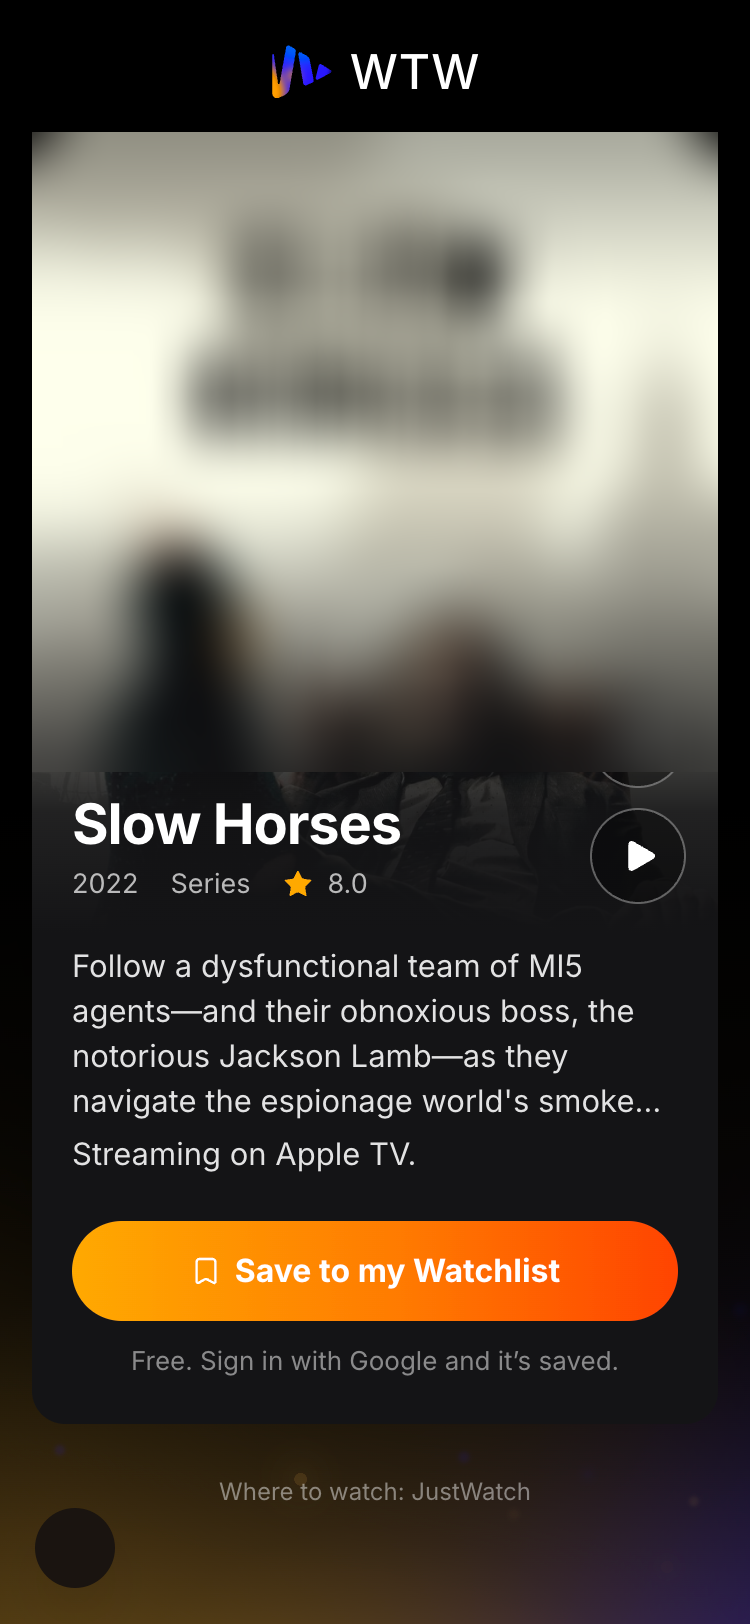
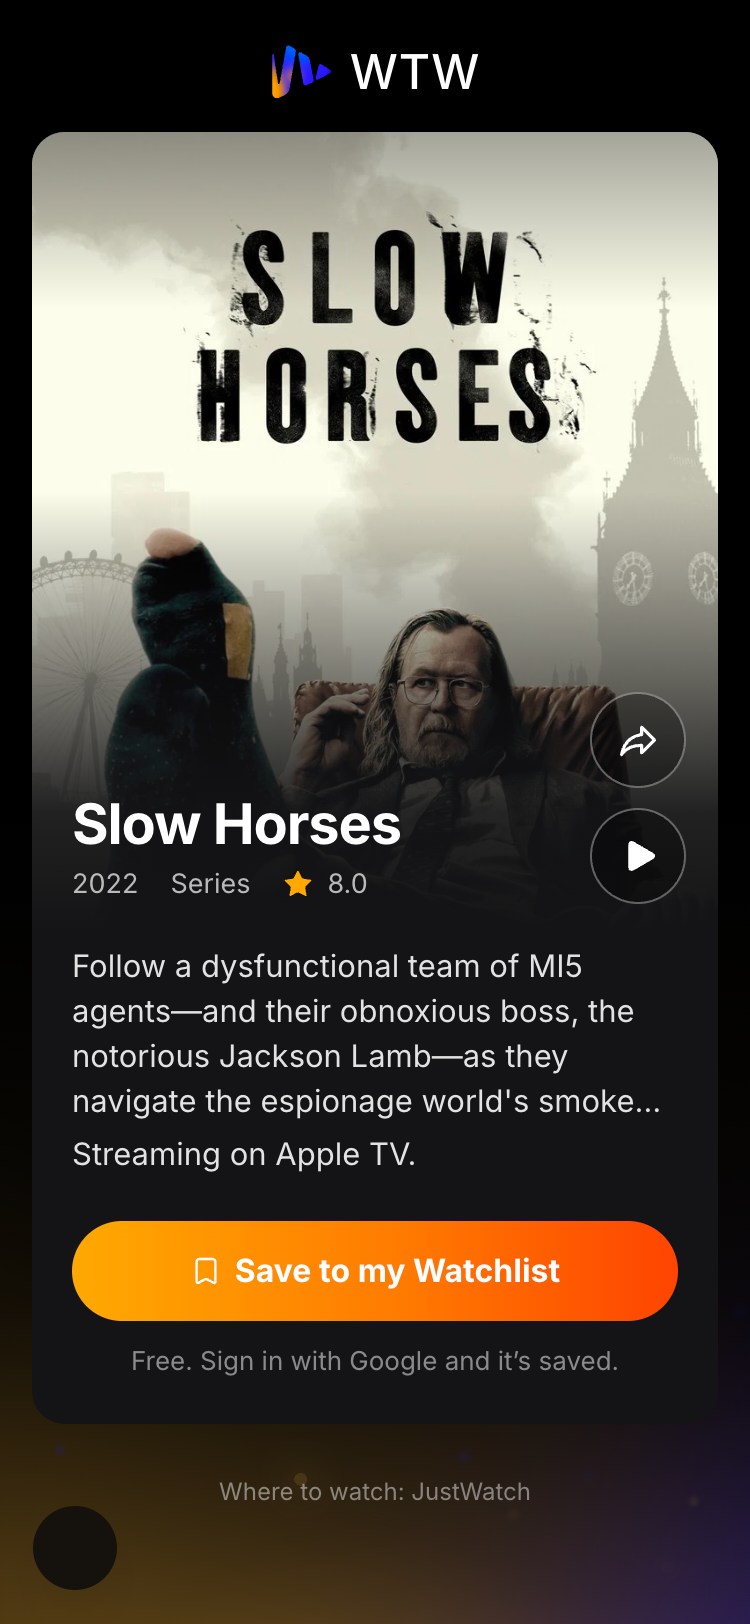
L1 follow-up: the share page credits JustWatch, once, under the card (Eran's OK on #396)
- SharedTitleView: "Where to watch: JustWatch" under the card when the
  card names a service ("Streaming on Apple TV."), none otherwise.
- Test: once with a service, absent without.
- The mock without blur (only the dev badge covered), and its line in
  INTEGRATION.md. The games' Watchlist needs nothing (unreachable; its
  deletion is on the backlog, #408).

diff --git a/tests/component/shared-title-credit.test.tsx b/tests/component/shared-title-credit.test.tsx
@@ -1,0 +1,35 @@
+import { describe, it, expect, vi, afterEach } from 'vitest'
+import { render, screen, cleanup } from '@testing-library/react'
+import type { ReactNode } from 'react'
+import type { Recommendation } from '@/types/recommendation'
+
+// v3 L1 follow-up (Eran on #396): the public share page credits JustWatch once, under the card, only when the card
+// names a service.
+
+vi.mock('next/navigation', () => ({ useRouter: () => ({ push: vi.fn(), replace: vi.fn() }) }))
+vi.mock('@/modules/session/components/AppShell', () => ({ default: ({ children }: { children: ReactNode }) => <div>{children}</div> }))
+vi.mock('@/lib/supabase/client', () => ({ createClient: () => ({ auth: { signInWithOAuth: vi.fn() } }) }))
+vi.mock('@/lib/share', () => ({ shareTitle: vi.fn() }))
+
+import SharedTitleView from '@/app/t/[key]/SharedTitleView'
+
+const rec = (where: string | null): Recommendation => ({
+  id: 'tv:95480', title: 'Slow Horses', type: 'tv', year: 2022, poster_url: null, meta: 'Series', rating: 8,
+  match: 0, reason: '', where, motif: 'dot', palette: ['#16242E', '#F5C9A6'],
+})
+const page = (where: string | null) =>
+  render(<SharedTitleView shareKey="tv-95480" rec={rec(where)} synopsis="Follow a dysfunctional team of MI5 agents." by={null} userId={null} viewerName={null} newUser={false} saveOnLoad={false} />)
+
+afterEach(cleanup)
+
+describe('the share page credits JustWatch', () => {
+  it('once, under the card, when the card names a service', () => {
+    page('Apple TV')
+    expect(screen.getByText('Streaming on Apple TV.')).toBeInTheDocument()
+    expect(screen.getAllByText('Where to watch: JustWatch')).toHaveLength(1)
+  })
+  it('not at all when it names none', () => {
+    page(null)
+    expect(screen.queryByText('Where to watch: JustWatch')).toBeNull()
+  })
+})

diff --git a/src/app/t/[key]/SharedTitleView.tsx b/src/app/t/[key]/SharedTitleView.tsx
@@ -11,7 +11,6 @@
  * Saving goes through the same watchlist as the feed, so it syncs and reaches
  * the fingerprint like any other save.
  */
-import JustWatchCredit from "@/app/components/JustWatchCredit";
 import { useEffect, useState } from "react";
 import { useRouter } from "next/navigation";
 import { Bookmark, Play, Star } from "lucide-react";
@@ -20,6 +19,7 @@ import { createClient } from "@/lib/supabase/client";
 import { addToWatchlist, hydrateWatchlist, isInWatchlist, removeFromWatchlist } from "@/lib/watchlist";
 import { shareTitle } from "@/lib/share";
 import ShareIcon from "@/app/components/ShareIcon";
+import JustWatchCredit from "@/app/components/JustWatchCredit";
 import { RETURN_COOKIE } from "@/lib/safe-redirect";
 import type { Recommendation } from "@/types/recommendation";
 import styles from "./SharedTitle.module.css";

diff --git a/docs/INTEGRATION.md b/docs/INTEGRATION.md
@@ -38,6 +38,7 @@ Spec `docs/plan/v3/PLAN.md`; status in GitHub Issues (label `v3`) and on the [WT
 - **Q2 · Each result shows where it stands with you (#365, Shahar, 2026-11-21), behind `SEARCH_V3`.** Each title row in Search (results, your own groups, a person's titles) carries one mark after the year, in white: your rating (❤ Loved · 👍 Liked · 👎 Disliked) first, else "In your Watchlist", else "Hidden from For you" (`markFor` in `SearchView`). Marks come from Seen's list (`myRatings()` in `SearchCard.tsx`, which now also returns hidden titles) and follow every rating as it lands (`RATED_EVENT`) and every hide or restore (`HIDDEN_EVENT`, fired by For you's Remove and Seen's Restore; a rating outranks hidden). A hidden title lights no chip on the card. Flag off: no marks.
 - **L1 · The JustWatch credit comes back (#372, Alon, 2026-11-19, #396), no flag (a licence requirement).** One quiet line, "Where to watch: JustWatch" (`src/app/components/JustWatchCredit.tsx`), Eran's choice B: at the end of For you and of the Watchlist, and under the card on the card page and Search's card, only where a service is shown. Found and fixed on the way: the end of both lists sat under the tab bar (`.sentinel` shrank as a flex item), and Search showed the US service for your own titles (`withIsraelService`, DEC-11). Open for Eran: the share page `/t/…` and the games' watchlist also show a service without the credit.
 - **F5 · "Sharper picks" gets the orange button (#347, Eran, 2026-11-22), no flag.** `CalibrateNudge`'s "Finish calibration" now uses the app's orange primary (`watchlistBtn` + `watchlistBtnPrimary`, as on W1's end card): 50 px and 16 px like "Add to Watchlist", with its hover. It was already orange through `browseBtn` since #336 (the approved `6-sharper-picks-today.jpg` predates that); `browseBtn` had no other user and is gone. Copy unchanged. Proof in `docs/prototypes/for-you-v3/f5-proof/`.
+- **L1 follow-up · The share page credits JustWatch (Alon, 2026-11-22; Eran's OK on #396), no flag.** The public `/t/…` page shows "Where to watch: JustWatch" once, under the card, when the card names a service (`SharedTitleView.tsx`). The games' own Watchlist screen needs nothing: no path reaches it (its menu opens the app's Watchlist); deleting it is on the backlog (#408).
 
 ### v2 plan
 
